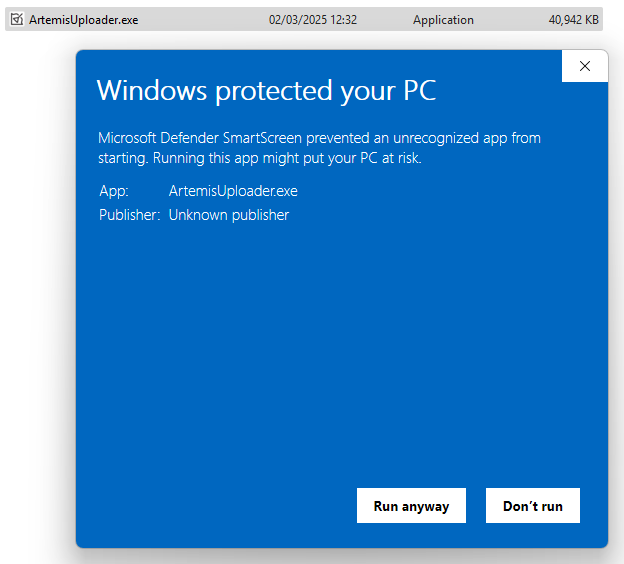
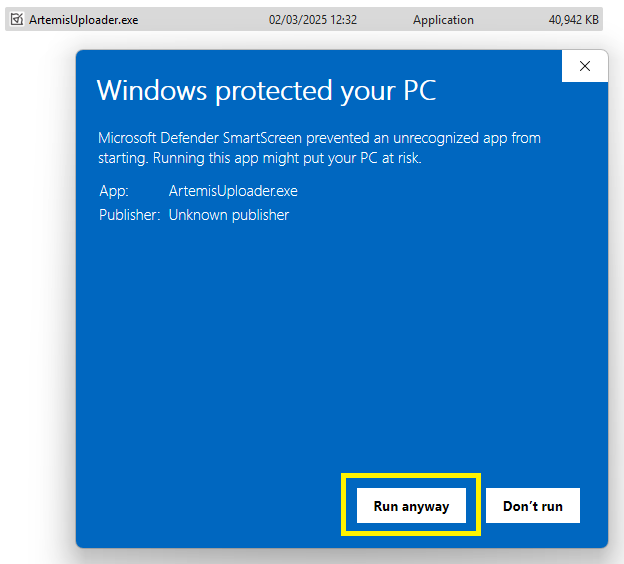
Update README. Add new images

Changed region(s): [[0.5481, 0.8138, 0.7917, 0.9645]]

diff --git a/README.md b/README.md
@@ -27,7 +27,7 @@ If you need to install the application, see the [Installation Section](#installa
 * Attach the Artemis target board over USB
 * Select the COM port from the dropdown menu
 * Adjust the Baud Rate as desired
-* Click the  ```Upload Firmware``` Button in the lower left of the app.
+* Click the  ```Upload Firmware``` Button in the lower right corner of the app.
 
 The selected firmware is then uploaded to the connected SparkFun Artemis product. Upload information and progress are displayed in the output portion of the interface. 
 
@@ -52,33 +52,68 @@ Installation binaries are available for all major platforms (macOS, Window, and 
 * This results in the application executable, *ArtemisUploader.exe*
 * Double-click *ArtemisUploader.exe* to start the application
 
-![macOS Artemis Uploader](images/artemis-windows.png)
+![Artemis Uploader on Windows](images/artemis-windows.png)
+
+* The Windows EXE isn't signed, so you will see the following warning. Click **More info**:
+
+![Artemis Uploader on Windows - Warning 1](images/artemis-windows-1.png)
+
+* Click **Run anyway** to start the GUI:
+
+![Artemis Uploader on Windows - Warning 2](images/artemis-windows-2.png)
 
 ### macOS
+
+* Check that you have the latest WCH drivers installed for the CH340 interface chip.
+    * Full instructions can be found in our [CH340 Tutorial](https://learn.sparkfun.com/tutorials/how-to-install-ch340-drivers/all#mac-osx)
+    * Here is a link to the WCH downloads page for the [CH340 / CH341 macOS driver](https://www.wch-ic.com/downloads/CH341SER_MAC_ZIP.html)
+    * The Zip file contains more instructions: CH34X_DRV_INSTAL_INSTRUCTIONS.pdf
+
 * Download the [github release](https://github.com/sparkfun/Artemis-Firmware-Upload-GUI/releases) file - *ArtemisUploader.dmg*
-* Double click on the file to unzip the file to *ArtemisUploader.dmg*
-* Double click the *ArtemisUploader.dmg* file to mount the disk image. 
+* Click on the downloads icon
+* Click the *ArtemisUploader.dmg* file to mount the disk image
 * The following Finder window, with the contents of the file will open
 
 ![Artemis Uploader macOS Finder](images/macos-finder.png)
 
-* Install the *ArtemisUploader.app* by dragging it on the *Applications* in the ArtemisUploader Finder Window, or copying the file to a desired location.
-* Once complete, unmount the ArtemisUploader disk image by right-clicking on the mounted disk in Finder and ejecting it.
+* Install the *ArtemisUploader.app* by dragging it onto the *Applications* icon in the ArtemisUploader Finder Window, or copying the file to a desired location.
+* Once complete, unmount the ArtemisUploader disk image by clicking on the disk eject in Finder.
+
+![Artemis Uploader macOS Finder](images/artemis-macos-install-1.png)
 
 To launch the Artemis Uploader application:
+
 * Double-click ArtemisUploader.app to launch the application
-* The ArtemisUploader.app isn't signed, so macOS won't run the application, and will display a warning dialog. Dismiss this dialog.
-* To approve app execution bring up the macOS *System Preferences* and navigate to: *Security & Privacy > General*. 
-* On this page, select the *Open Anyway* button to launch the ArtemisUploader application.
 
+![Artemis Uploader macOS Finder](images/artemis-macos-install-2.png)
 
-![macOS Security](images/macos-security.png)
+* The ArtemisUploader.app isn't signed, so macOS won't run the application, and will display a warning dialog. Click **Done**.
 
-* Once selected, macOS will present one last dialog. Select *Open* to run the application. The ArtemisUploader will now start.
+![Artemis Uploader macOS Finder](images/artemis-macos-install-3.png)
 
-![macOS Artemis Uploader](images/artemis-macos.png)
+* To approve app execution bring up the macOS *System Settings* and navigate to *Privacy & Security*. 
+* On this page, select the **Open Anyway** button to launch the ArtemisUploader application.
+
+![Artemis Uploader macOS System Settings](images/artemis-macos-install-4.png)
+
+* Once selected, macOS will present one last dialog. Select **Open Anyway** to run the application.
+
+![Artemis Uploader macOS System Settings](images/artemis-macos-install-5.png)
+
+* Enter your password and click The ArtemisUploader will now start.
+
+![Artemis Uploader macOS System Settings](images/artemis-macos-install-6.png)
+
+* Ensure you select the correct *COM Port*. The port name should begin with **cu.wchusbserial**.
+
+![macOS Artemis Uploader](images/artemis-macos-1.png)
+
+* When you select the *Firmware File*, click **Allow** to allow the app to open the file.
+
+![macOS Artemis Uploader](images/artemis-macos-2.png)
 
 ### Linux
+
 * Download the [github release](https://github.com/sparkfun/Artemis-Firmware-Upload-GUI/releases) file - *ArtemisUploader.linux.gz*
 * Unzip the release file - *ArtemisUploader.linux.gz*
 * Un-gzip the file, either by double-clicking in on the desktop, or using the `gunzip` command in a terminal window. This results in the file *ArtemisUploader* 
@@ -86,7 +121,6 @@ To launch the Artemis Uploader application:
 * Once the application has execute permission, you can start the application a terminal window. Change directory's to the application location and issue `./ArtemisUploader`
 
 ![Linux Artemis Uploader](images/artemis-linux.png)
-
 
 ### Python Package
 The Artemis Uploader App is also provided as an installable Python package. This is advantageous for platforms that lack a pre-compiled application. 
